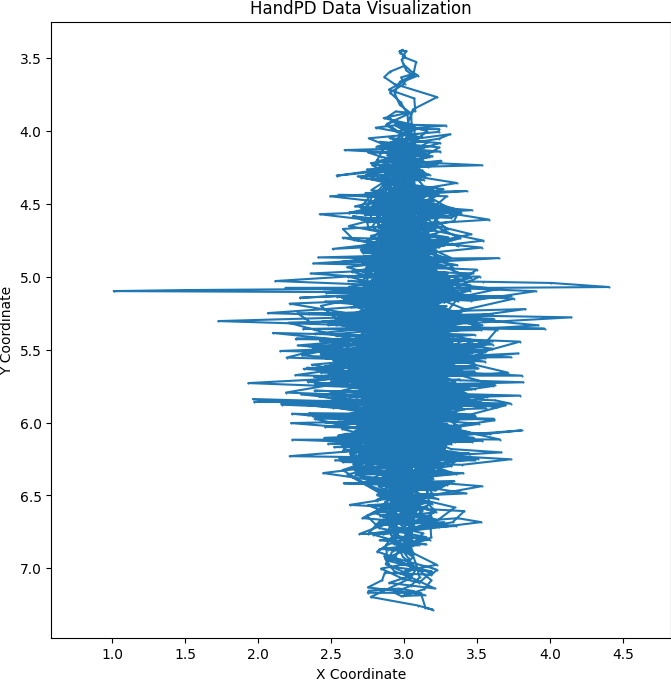
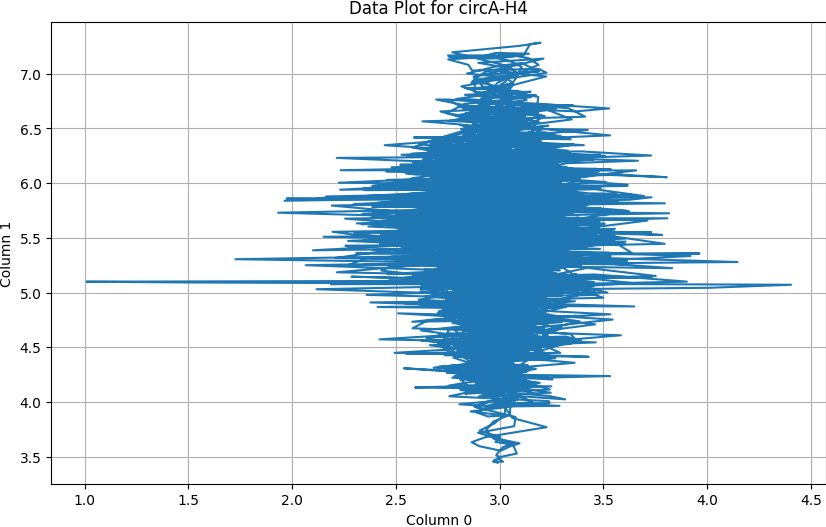
Ver 0.3
Failed to transpose into Eye Easy Catch Diagram, Abandoning

diff --git a/signalconverter.py b/signalconverter.py
@@ -1,72 +1,64 @@
 import pandas as pd
+import io
+import os
 import matplotlib.pyplot as plt
-import numpy as np
-import os  # Untuk manipulasi path
 
-def visualize_handpd_data(file_path, output_file):
-    """
-    Visualizes HandPD data from a .txt file, plotting the X and Y coordinates,
-    and saves the plot to a PNG file.
+# --- Bagian Konfigurasi dari Template Anda ---
+# Set the filename
+name = "circA-H4" # Menggunakan nama dari file yang diupload sebelumnya,
+                   # Anda bisa ganti ke "circA-H11" jika file tersebut yang ingin diproses
 
-    Args:
-        file_path (str): The path to the HandPD .txt file.
-        output_file (str): The path where the output PNG file should be saved.
-    """
+# Path ke file input .txt Anda
+# Menggunakan f-string untuk memasukkan nama file ke dalam path
+input_path = fr"C:\Users\Pongo\OneDrive\Documents\~Cornel\~Ideas n Innovation\Project\25-4-22 -- Parkinson Unika\Dataset\UNESP\Healthy\Signal\{name}.txt"
 
-    try:
-        with open(file_path, 'r') as file:
-            lines = file.readlines()
+# Path ke folder output Anda
+output_folder = fr"C:\Users\Pongo\OneDrive\Documents\~Cornel\~Ideas n Innovation\Project\25-4-22 -- Parkinson Unika"
 
-        data_lines = []
-        for line in lines:
-            if not line.startswith('#') and not line.startswith('<'):  # Skip metadata lines
-                data_lines.append(line.strip().split('\t'))
+# Memastikan folder output ada, jika tidak maka membuatnya
+os.makedirs(output_folder, exist_ok=True)
 
-        df = pd.DataFrame(data_lines)
-        df = df.apply(pd.to_numeric, errors='coerce')  # Convert to numeric, handle errors
+# --- Bagian Pembacaan dan Parsing Data (dari skrip sebelumnya) ---
+metadata = []
+numeric_data_lines = []
 
-        # Extract X and Y coordinates (assuming they are the first two columns)
-        x = df.iloc[:, 0].dropna()
-        y = df.iloc[:, 1].dropna()
+try:
+    with open(input_path, 'r') as f:
+        for line in f:
+            stripped_line = line.strip()
+            if stripped_line.startswith('#'):
+                metadata.append(stripped_line)
+            elif stripped_line:
+                numeric_data_lines.append(stripped_line)
 
-        # Check if we have enough data to plot
-        if len(x) < 2 or len(y) < 2:
-            print("Error: Not enough data points to plot.")
-            return
+    numeric_data_string = "\n".join(numeric_data_lines)
+    data_io = io.StringIO(numeric_data_string)
+    # Menggunakan sep='\s+' agar lebih fleksibel terhadap spasi/tab
+    df = pd.read_csv(data_io, sep='\s+', header=None, dtype=float)
 
-        # Create the plot
-        plt.figure(figsize=(8, 8))  # Adjust figure size as needed
-        plt.plot(x, y, linestyle='-', marker='.', markersize=1)  # Plot lines and points
-        plt.xlabel("X Coordinate")
-        plt.ylabel("Y Coordinate")
-        plt.title("HandPD Data Visualization")
-        plt.gca().invert_yaxis()  # Invert Y-axis to match typical writing orientation
-        plt.axis('equal')  # Ensure equal scaling for X and Y axes
+    print(f"Berhasil membaca dan memparsing data dari: {input_path}")
+    print(f"Jumlah baris data: {len(df)}")
 
-        # Save the image
+    # --- Bagian Plotting dan Penyimpanan ---
+    if not df.empty and df.shape[1] >= 2: # Memastikan ada data dan minimal 2 kolom
+        print("Membuat plot...")
+        # Membuat plot sederhana: Kolom 0 sebagai sumbu X, Kolom 1 sebagai sumbu Y
+        plt.figure(figsize=(10, 6)) # Mengatur ukuran gambar
+        plt.plot(df.iloc[:, 0], df.iloc[:, 1]) # Menggunakan iloc untuk akses kolom by index
+        plt.title(f'Data Plot for {name}')
+        plt.xlabel('Column 0')
+        plt.ylabel('Column 1')
+        plt.grid(True)
+
+        # Menentukan nama file output dan menyimpannya (dari template Anda)
+        output_file = os.path.join(output_folder, f'{name}.png')
         plt.savefig(output_file, bbox_inches='tight', pad_inches=0)
-        plt.close()
-        print(f"Visualization saved to {output_file}")
+        plt.close() # Menutup plot agar tidak ditampilkan di output interaktif
+        print(f"Plot berhasil disimpan ke: {output_file}")
+    else:
+        print("Tidak ada data numerik yang cukup untuk diplot.")
 
-    except FileNotFoundError:
-        print(f"Error: File not found at {file_path}")
-    except Exception as e:
-        print(f"An error occurred: {e}")
-
-if __name__ == "__main__":
-    # Set the filename
-    name = "circA-H4"  # You can change this to the desired filename
-
-    # Path to your input .txt file
-    input_path = fr"C:\Users\Pongo\OneDrive\Documents\~Cornel\~Ideas n Innovation\Project\25-4-22 -- Parkinson Unika\Dataset\UNESP\Healthy\Signal\{name}.txt"
-
-    # Path to your output folder
-    output_folder = fr"C:\Users\Pongo\OneDrive\Documents\~Cornel\~Ideas n Innovation\Project\25-4-22 -- Parkinson Unika"
-
-    # Ensure the output folder exists
-    os.makedirs(output_folder, exist_ok=True)
-
-    # Save the image
-    output_file = os.path.join(output_folder, f'{name}.png')
-
-    visualize_handpd_data(input_path, output_file)
+except FileNotFoundError:
+    print(f"Error: File input '{input_path}' tidak ditemukan.")
+except Exception as e:
+    print(f"Terjadi error saat memproses file: {e}")
